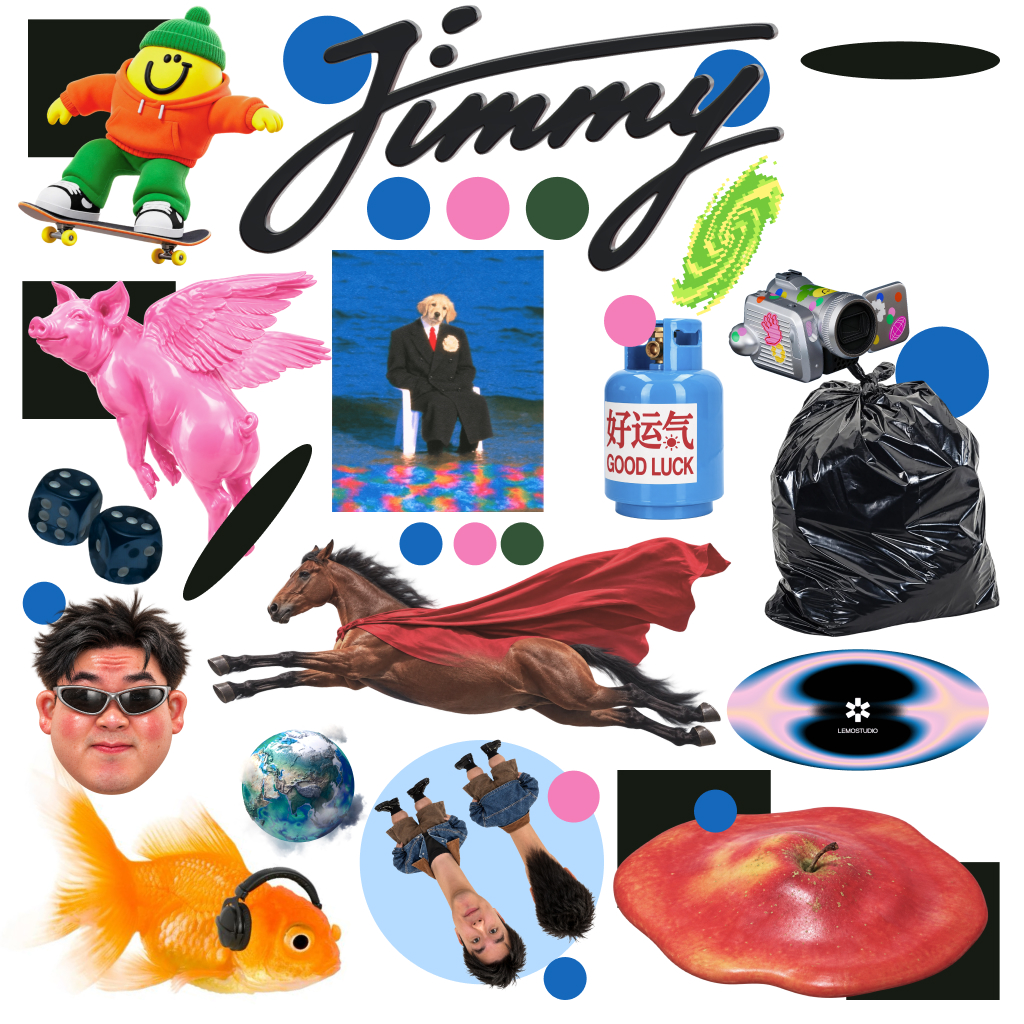
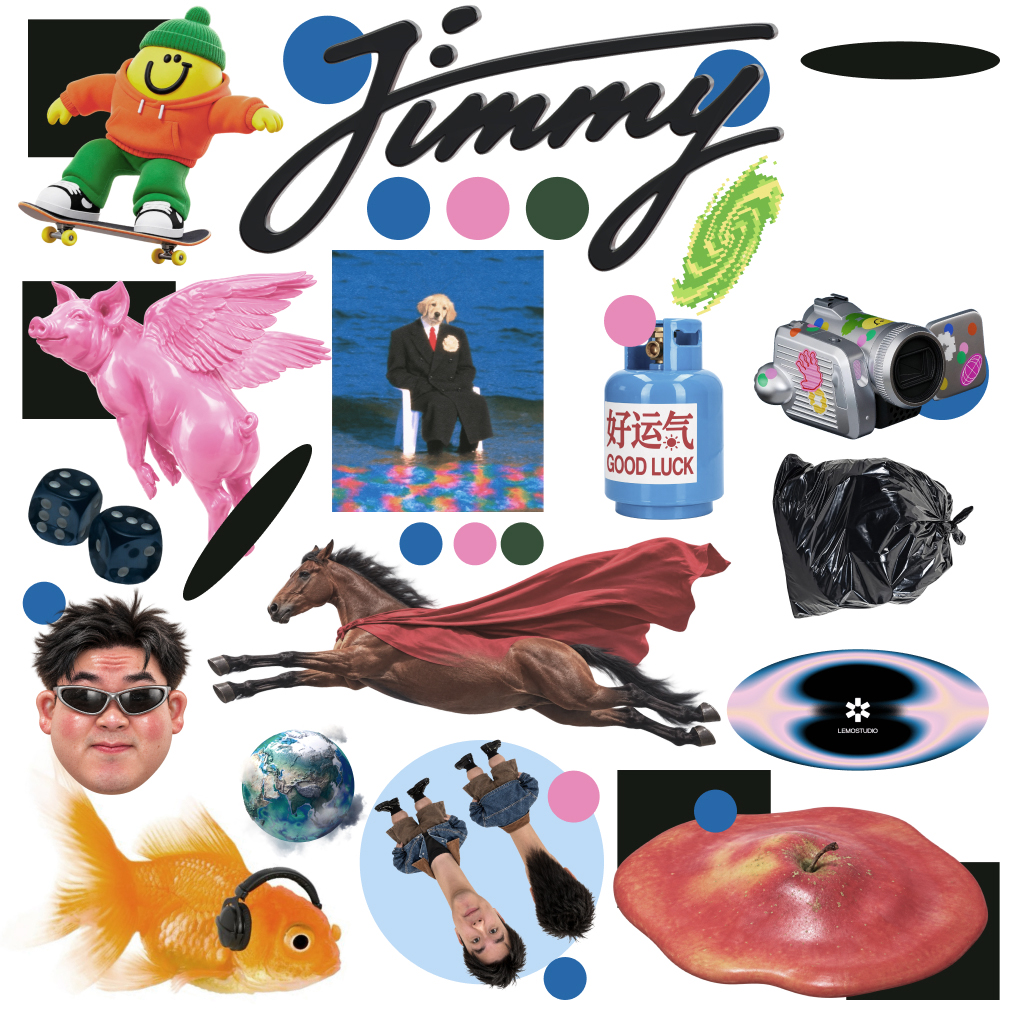
feat: 为logo添加物理碰撞和回弹效果
新增logo的物理碰撞组，实现logo与其他物体的碰撞检测
添加logo回弹弹簧系统，支持释放后返回原位的平滑动画
修改物理步进逻辑，整合logo物理更新
调整像素漩涡颜色，新增稀疏像素滴效果
修正首页职业描述文本
更新环境图片资源

Changed region(s): [[0.6875, 0.25, 1.0, 0.625], [0.0625, 0.7812, 0.3438, 0.9688], [0.0312, 0.0625, 0.2812, 0.1562]]

diff --git a/src/lib/chrome-world.ts b/src/lib/chrome-world.ts
@@ -44,8 +44,8 @@ export const referencePhysics = {
 };
 
 // Original free drift uses silhouette separation. Guided currents additionally
-// enable real prop contacts; the logo stays outside the physics world.
-const collisionGroup = { boundary: 1, prop: 2, pointer: 4, portalGun: 8 };
+// enable real prop contacts; the animated logo blocks props in every physics mode.
+const collisionGroup = { boundary: 1, prop: 2, pointer: 4, portalGun: 8, logo: 16 };
 
 export function createChromeWorld(canvas: HTMLCanvasElement, options: ChromeWorldOptions = {}) {
   const host = canvas.parentElement!;
@@ -149,7 +149,7 @@ export function createChromeWorld(canvas: HTMLCanvasElement, options: ChromeWorl
   const flowAcceleration = new THREE.Vector3();
   let flowBlend = 0;
   let flowSpeed = 1;
-  const propMask = () => collisionGroup.boundary | collisionGroup.pointer | ((isFlowMode(floatingMode) || floatingMode === "gravity") ? collisionGroup.prop | collisionGroup.portalGun : 0);
+  const propMask = () => collisionGroup.boundary | collisionGroup.pointer | collisionGroup.logo | ((isFlowMode(floatingMode) || floatingMode === "gravity") ? collisionGroup.prop | collisionGroup.portalGun : 0);
   let beltAngle = 0;
   let beltSpeed = .10;
   const beltKeys = new Set<string>();
@@ -264,6 +264,21 @@ export function createChromeWorld(canvas: HTMLCanvasElement, options: ChromeWorl
     bakedMaterials?.setWeather(amount);
     plasterMaterials.setWeather(amount);
   };
+  const logoAnchor = new THREE.Vector3();
+  const logoReturnOffset = new THREE.Vector3();
+  let logoReturn: { offset: THREE.Vector3; velocity: THREE.Vector3; age: number } | null = null;
+  // An analytic critically damped spring preserves the portal's exit velocity,
+  // allows an overshoot, and settles without frame-rate-dependent integration.
+  const advanceLogoReturn = (delta: number) => {
+    if (!logoReturn) return;
+    logoReturn.age += delta;
+    const { offset, velocity, age } = logoReturn;
+    const frequency = 2.8;
+    const decay = Math.exp(-frequency * age);
+    logoReturnOffset.copy(offset).multiplyScalar(1 + frequency * age)
+      .addScaledVector(velocity, age).multiplyScalar(decay);
+    if (age > 6) { logoReturn = null; logoReturnOffset.set(0, 0, 0); }
+  };
   const logo = new THREE.Group(); logo.name = "fixed-silver-ZZ"; scene.add(logo);
   // User-directed silver adaptation. A real curved surface reflects the panorama;
   // this replaces the old sinusoidal fragment-normal trick and fabricated softboxes.
@@ -281,6 +296,46 @@ export function createChromeWorld(canvas: HTMLCanvasElement, options: ChromeWorl
     geometries.add(geometry);
     logo.add(new THREE.Mesh(geometry, chrome));
   }
+
+  // Four separate prisms preserve the negative space between the logo triangles.
+  const logoBody = new CANNON.Body({ type: CANNON.Body.KINEMATIC,
+    collisionFilterGroup: collisionGroup.logo,
+    collisionFilterMask: collisionGroup.prop | collisionGroup.portalGun });
+  const logoShapes = triangles.map(vertices => {
+    const points = vertices.map(([x, y]) => [(x - 30) * .05, (y - 15) * .05]);
+    const [a, b, c] = points;
+    if ((b[0] - a[0]) * (c[1] - a[1]) - (b[1] - a[1]) * (c[0] - a[0]) < 0) [points[1], points[2]] = [points[2], points[1]];
+    const offset = new CANNON.Vec3(points.reduce((sum, p) => sum + p[0], 0) / 3, points.reduce((sum, p) => sum + p[1], 0) / 3, .0075);
+    const vertices3d = [-.185, .2].flatMap(z => points.map(([x, y]) => new CANNON.Vec3(x - offset.x, y - offset.y, z - offset.z)));
+    const shape = new CANNON.ConvexPolyhedron({ vertices: vertices3d,
+      faces: [[2, 1, 0], [3, 4, 5], [0, 1, 4, 3], [1, 2, 5, 4], [2, 0, 3, 5]] });
+    logoBody.addShape(shape, offset);
+    return { shape, offset, vertices: vertices3d.map(vertex => vertex.clone()) };
+  });
+  world.addBody(logoBody);
+  let colliderScale = -1;
+  const stepPhysics = (delta: number) => {
+    updateLogoPose();
+    logoBody.collisionFilterMask = easterEgg.active || workProgress() >= 1
+      ? 0 : collisionGroup.prop | collisionGroup.portalGun;
+    if (colliderScale !== logo.scale.x) {
+      colliderScale = logo.scale.x;
+      for (const [shapeIndex, { shape, offset, vertices }] of logoShapes.entries()) {
+        offset.scale(colliderScale, logoBody.shapeOffsets[shapeIndex]);
+        vertices.forEach((vertex, index) => vertex.scale(colliderScale, shape.vertices[index]));
+        shape.computeNormals();
+        shape.computeEdges();
+        shape.updateBoundingSphereRadius();
+        shape.worldVerticesNeedsUpdate = true;
+        shape.worldFaceNormalsNeedsUpdate = true;
+      }
+      logoBody.updateBoundingRadius();
+    }
+    logoBody.position.set(logo.position.x, logo.position.y, logo.position.z);
+    logoBody.quaternion.set(logo.quaternion.x, logo.quaternion.y, logo.quaternion.z, logo.quaternion.w);
+    logoBody.aabbNeedsUpdate = true;
+    world.step(referencePhysics.step, delta, referencePhysics.maxSubSteps);
+  };
 
   const track=(object:THREE.Object3D)=>object.traverse(child=>{
     if(!(child instanceof THREE.Mesh))return;
@@ -485,7 +540,12 @@ export function createChromeWorld(canvas: HTMLCanvasElement, options: ChromeWorl
     if (!vortex || !gun || easterEgg.active || entranceActive || !ready || paused || workProgress() > 0) return;
     finishBurstGravity();
     activePointer = null;
-    easterEgg.start(vortex.object, gun.object, [{ object: logo, billboard: true }, ...items.filter(item => item !== vortex).map(({ object, billboard, body }) => ({
+    easterEgg.start(vortex.object, gun.object, [{ object: logo, billboard: true,
+      onRelease: (position: THREE.Vector3, velocity: THREE.Vector3) => {
+        logoReturn = { offset: position.clone().sub(logoAnchor), velocity: velocity.clone(), age: 0 };
+        logoReturnOffset.copy(logoReturn.offset);
+      },
+    }, ...items.filter(item => item !== vortex).map(({ object, billboard, body }) => ({
       object, billboard,
       onRelease: usesPhysics() ? (position: THREE.Vector3, velocity: THREE.Vector3) => {
         body.position.set(position.x, position.y, position.z);
@@ -828,7 +888,7 @@ export function createChromeWorld(canvas: HTMLCanvasElement, options: ChromeWorl
     applyMagnet(delta);
     applyFlowForces();
     // Each released body immediately joins the live current while the rest enter.
-    world.step(referencePhysics.step, delta, referencePhysics.maxSubSteps);
+    stepPhysics(delta);
     items.forEach((item, index) => {
       if (item.object.name === 'floating-pixel-vortex') return;
       if (item.entranceReleased) {
@@ -892,17 +952,7 @@ export function createChromeWorld(canvas: HTMLCanvasElement, options: ChromeWorl
       const edgeY = screen.y - THREE.MathUtils.clamp(screen.y, -limitY, limitY);
       screen.fx = -screen.x * .045 - edgeX * edgeStrength - body.velocity.x * .22;
       screen.fy = -screen.y * .045 - edgeY * edgeStrength - (body.velocity.y * upY + body.velocity.z * upZ) * .22;
-      // Leave a small breathing space around the central logo as silhouettes drift past.
-      const logoY = width < config.sizing.mobileBreakpoint ? 0 : viewHeight * (.5 - config.logo.centerY);
-      const clearX = logoScale * 1.55 + screen.radius * .7;
-      const clearY = logoScale * .525 + screen.radius * .7;
-      const dx = screen.x / clearX, dy = (screen.y - logoY) / clearY;
-      const distance = Math.hypot(dx, dy);
-      if (distance < 1) {
-        const direction = distance > .001 ? Math.atan2(dy, dx) : item.phase;
-        screen.fx += Math.cos(direction) * (1 - distance) * 1.2;
-        screen.fy += Math.sin(direction) * (1 - distance) * 1.2;
-      }
+
     }
     for (let i = 0; i < items.length; i++) {
       if (!items[i].body.collisionResponse) continue;
@@ -956,7 +1006,7 @@ export function createChromeWorld(canvas: HTMLCanvasElement, options: ChromeWorl
         }
       }
       applyMagnet(delta);
-      world.step(referencePhysics.step, delta, referencePhysics.maxSubSteps);
+      stepPhysics(delta);
       for (const { body, object } of items) { object.position.copy(body.position); object.quaternion.copy(body.quaternion); }
       canvas.dataset.burstGravity = gravity.toFixed(3);
       canvas.dataset.phase = recovery > 0 ? "burst-recover" : "burst-gravity";
@@ -978,7 +1028,7 @@ export function createChromeWorld(canvas: HTMLCanvasElement, options: ChromeWorl
     if (floatingMode === "gravity") {
       cameraFrame();
       applyMagnet(delta);
-      world.step(referencePhysics.step, delta, referencePhysics.maxSubSteps);
+      stepPhysics(delta);
       for (const { body, object } of items) { object.position.copy(body.position); object.quaternion.copy(body.quaternion); }
       canvas.dataset.phase = "gravity";
       return;
@@ -995,7 +1045,7 @@ export function createChromeWorld(canvas: HTMLCanvasElement, options: ChromeWorl
       updateReleaseDrag();
       applyFlowForces();
       applyMagnet(delta);
-      world.step(referencePhysics.step, delta, referencePhysics.maxSubSteps);
+      stepPhysics(delta);
       for (const { body, object } of items) { object.position.copy(body.position); object.quaternion.copy(body.quaternion); }
       canvas.dataset.phase = floatingMode;
       return;
@@ -1029,28 +1079,32 @@ export function createChromeWorld(canvas: HTMLCanvasElement, options: ChromeWorl
     spreadFloatingItems();
     applyMagnet(delta);
     updateReleaseDrag();
-    world.step(referencePhysics.step,delta,referencePhysics.maxSubSteps);
+    stepPhysics(delta);
     for(const {body,object} of items){object.position.copy(body.position);object.quaternion.copy(body.quaternion);}
     if(elapsed>1.5&&activePointer===null)canvas.dataset.phase='orbit';
   };
   // One progress value is shared with the DOM takeover. Camera-relative coordinates
   // keep the logo centered while the surrounding objects accelerate in world space.
-  const composeWork = () => {
+  const updateLogoPose = () => {
     const p = workProgress();
     logo.visible = true;
     // Returning to the hero keeps the live physics state instead of replaying the entrance.
     // Acceleration belongs to the shared timeline; local phases only remap its progress.
     const travel = THREE.MathUtils.clamp((p - .2) / .8, 0, 1);
     const turn = reduced ? 0 : THREE.MathUtils.clamp((p - .08) / .82, 0, 1) * Math.PI * 2;
-    pointerYaw = THREE.MathUtils.lerp(pointerYaw, reduced ? 0 : pointer.x * .675, .12);
     logo.quaternion.copy(camera.quaternion).multiply(spin.setFromAxisAngle(spinAxis, turn + pointerYaw * (1 - p)));
     canvas.dataset.pointerYaw = String(pointerYaw);
     const introY = width < config.sizing.mobileBreakpoint ? 0 : height * (.5 - config.logo.centerY) / camera.zoom;
     const logoY = THREE.MathUtils.lerp(introY, (height / 2 - 44) / camera.zoom, travel);
-    logo.position.set(0, logoY, 0).applyQuaternion(camera.quaternion);
+    logoAnchor.set(0, logoY, 0).applyQuaternion(camera.quaternion);
+    logo.position.copy(logoAnchor).addScaledVector(logoReturnOffset, reduced ? 0 : 1 - travel);
     const entranceProgress = reduced ? 1 : Math.min(1, logoEntranceTime / logoEntranceDuration);
     const entranceScale = .18 + .82 * (1 - Math.pow(1 - entranceProgress, 4));
     logo.scale.setScalar(THREE.MathUtils.lerp(logoScale * entranceScale, 72 / (3.1 * camera.zoom), travel));
+    return { p, turn, logoY };
+  };
+  const composeWork = () => {
+    const { p, turn, logoY } = updateLogoPose();
     const vanish = THREE.MathUtils.clamp((p - .16) / .54, 0, 1);
     const depthRange = Math.min(viewWidth, viewHeight) * config.depthSizing.range;
     const cameraDistance = camera.position.length();
@@ -1198,7 +1252,9 @@ export function createChromeWorld(canvas: HTMLCanvasElement, options: ChromeWorl
       // The logo probe and other materials must see the same environment direction.
       scene.backgroundRotation.y = rotation;
     }
+    if (!paused) advanceLogoReturn(delta);
     if (easterEgg.active && workProgress() > 0) easterEgg.cancel();
+    pointerYaw = THREE.MathUtils.lerp(pointerYaw, reduced ? 0 : pointer.x * .675, .12);
     if (!easterEgg.active) {
       if(ready&&!paused&&!reduced&&workProgress()<1)step(delta);else cameraFrame();
       composeWork();
@@ -1470,7 +1526,7 @@ export function createChromeWorld(canvas: HTMLCanvasElement, options: ChromeWorl
     glassComposite.render(scene,camera,skyScene);
     return results;
   };
-  const debug={exportFigmaLayers,snapshot:()=>({exportMode:exportLayout ? {...exportLayout,time:exportTime} : null,glass:glassComposite.snapshot(),sky:sky.snapshot(),lighting:{amount:lightingAmount,environmentIntensity:scene.environmentIntensity,exposure:renderer.toneMappingExposure,ambientIntensity:ambient.intensity,studio:studio.children.map(light=>({intensity:(light as THREE.Light).intensity,color:(light as THREE.Light).color.getHexString()}))},ready,paused,reduced,reflectionFrames,elapsed,angle,power,beltAngle,beltSpeed,steps:world.stepnumber,contacts,collisionPairs:[...collisions],bursts,view:{width:viewWidth,height:viewHeight},bounds:{scale:boundsScale,width:motionWidth,height:motionHeight},assetScale,camera:camera.position.toArray(),logoQuaternion:logo.quaternion.toArray(),cameraQuaternion:camera.quaternion.toArray(),bodies:items.map(({body,object,billboard,entranceReleased})=>({id:body.id,name:object.name,collisionFilterMask:body.collisionFilterMask,entranceReleased:!!entranceReleased,bodyType:body.type,billboard:!!billboard,visualQuaternion:object.quaternion.toArray(),visualPosition:object.position.toArray(),position:body.position.toArray(),velocity:body.velocity.toArray(),quaternion:body.quaternion.toArray(),mass:body.mass}))}),replay:reset};
+  const debug={exportFigmaLayers,snapshot:()=>({exportMode:exportLayout ? {...exportLayout,time:exportTime} : null,glass:glassComposite.snapshot(),sky:sky.snapshot(),lighting:{amount:lightingAmount,environmentIntensity:scene.environmentIntensity,exposure:renderer.toneMappingExposure,ambientIntensity:ambient.intensity,studio:studio.children.map(light=>({intensity:(light as THREE.Light).intensity,color:(light as THREE.Light).color.getHexString()}))},ready,paused,reduced,reflectionFrames,elapsed,angle,power,beltAngle,beltSpeed,steps:world.stepnumber,contacts,collisionPairs:[...collisions],bursts,view:{width:viewWidth,height:viewHeight},bounds:{scale:boundsScale,width:motionWidth,height:motionHeight},assetScale,camera:camera.position.toArray(),logoBody:{id:logoBody.id,shapes:logoBody.shapes.length,collisionFilterMask:logoBody.collisionFilterMask,position:logoBody.position.toArray(),scale:colliderScale},logoQuaternion:logo.quaternion.toArray(),cameraQuaternion:camera.quaternion.toArray(),bodies:items.map(({body,object,billboard,entranceReleased})=>({id:body.id,name:object.name,collisionFilterMask:body.collisionFilterMask,entranceReleased:!!entranceReleased,bodyType:body.type,billboard:!!billboard,visualQuaternion:object.quaternion.toArray(),visualPosition:object.position.toArray(),position:body.position.toArray(),velocity:body.velocity.toArray(),quaternion:body.quaternion.toArray(),mass:body.mass}))}),replay:reset};
   const debugCanvas=canvas as HTMLCanvasElement & {__chromeDebug?:typeof debug};
   if(options.debug)debugCanvas.__chromeDebug=debug;
   return {

diff --git a/src/lib/pixel-vortex.ts b/src/lib/pixel-vortex.ts
@@ -2,14 +2,18 @@ import * as THREE from "three";
 
 /** Broad pixel spiral streams, projected onto a fixed tilted disk. */
 export function createPixelVortex(settings: { pixels: number; speed: number; arms: number }) {
+  const green = new THREE.Color("#4FCD75");
+  const yellow = new THREE.Color("#F0FFA7");
+  // Blend in linear light so intermediate pigments retain the endpoint brightness.
+  const lime = green.clone().lerp(yellow, .45);
   const material = new THREE.ShaderMaterial({
     uniforms: {
       formation: { value: 1 }, time: { value: 0 }, pixels: { value: settings.pixels },
       speed: { value: settings.speed }, arms: { value: settings.arms },
-      green: { value: new THREE.Color("#45B900") },
-      lime: { value: new THREE.Color("#86E21A") },
-      yellow: { value: new THREE.Color("#FFF140") },
-      highlight: { value: new THREE.Color("#FFF500") },
+      green: { value: green },
+      lime: { value: lime },
+      yellow: { value: yellow },
+      highlight: { value: new THREE.Color("#F0FFA7") },
     },
     vertexShader: `varying vec2 vUv;
       void main() { vUv = uv; gl_Position = projectionMatrix * modelViewMatrix * vec4(position, 1.); }`,
@@ -63,6 +67,28 @@ export function createPixelVortex(settings: { pixels: number; speed: number; arm
           if (pigment < .22 && broad > .62 && patches > .60 && r > .58) color = highlight;
           if (patches < .42 && pigment > .20) color = green;
 
+        }
+        // Sparse pixel droplets peel off the rim along a rotating tangent.
+        // Use the same plane and pixel grid, keeping the effect to one draw call.
+        if (alpha < .5 && formation > .25) {
+          for (int i = 0; i < 12; i++) {
+            float seed = float(i) + 1.;
+            float life = fract(t * (.40 + hash(seed + 9.) * .16) + hash(seed));
+            float age = life / .72;
+            float angle = seed * 2.399963 + t * .32 + age * .22;
+            float radius = .88 + (.35 + hash(seed + 4.) * .12) * age;
+            vec2 droplet = vec2(cos(angle), sin(angle)) * radius;
+            droplet.y *= mix(1., .38, formation);
+            droplet = mat2(.819, .574, -.574, .819) * droplet;
+            droplet.y -= .065 * age * age;
+            float size = (.028 + hash(seed + 7.) * .022)
+              * smoothstep(0., .12, age) * (1. - smoothstep(.48, 1., age));
+            vec2 d = abs(p - droplet);
+            if (age < 1. && max(d.x, d.y) < size) {
+              color = mix(green, yellow, .25 + hash(seed + 2.) * .5);
+              alpha = 1.;
+            }
+          }
         }
         if (alpha < .5) discard;
         gl_FragColor = vec4(color, alpha);

diff --git a/src/components/home-page.tsx b/src/components/home-page.tsx
@@ -17,7 +17,7 @@ function Introduction() {
     <section id="introduction" tabIndex={-1} className="profile-introduction" aria-labelledby="introduction-title">
       <div className="profile-identity">
         <h2 id="introduction-title"><ScrambleText>HEY, I’M ZZ</ScrambleText></h2>
-        <h3><ScrambleText>CREATIVE DESIGNER</ScrambleText><br /><ScrambleText>ENGINEERING</ScrambleText></h3>
+        <h3><ScrambleText>CREATIVE DESIGNER</ScrambleText><br /><ScrambleText>ENGINEER</ScrambleText></h3>
       </div>
       <PortraitWarp />
       <div className="profile-statement">
